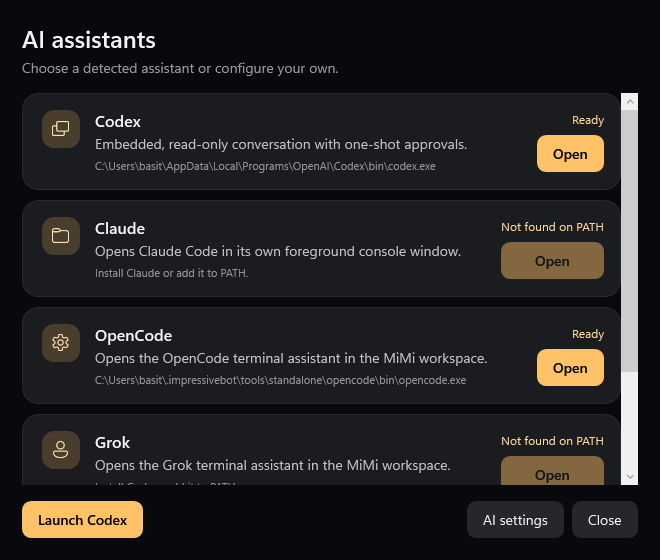
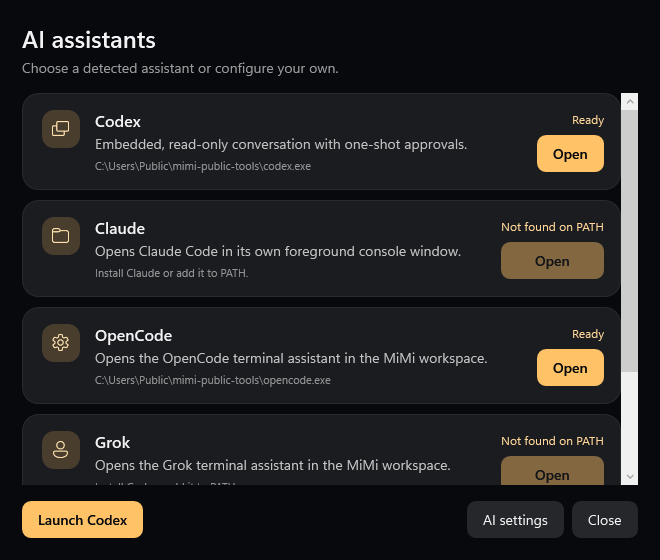
Refresh public screenshots and release archive
Update documentation images and sample text, and regenerate the distributable zip after verification.

Changed region(s): [[0.2121, 0.6679, 0.697, 0.6982], [0.2121, 0.2732, 0.6667, 0.3036]]

diff --git a/src/MiMi.Tests/AgentPanelLayoutTests.cs b/src/MiMi.Tests/AgentPanelLayoutTests.cs
@@ -51,7 +51,7 @@ public class AgentPanelLayoutTests
                 card.Update(AgentEventFactory.Create("thursday", "chat", AgentEventTypes.ApprovalRequested,
                     title: "Permission required", message: "Allow this tool family for this task?", project: "ImpressiveBackup",
                     approvalRequestId: "preview", metadata: new Dictionary<string, string> {
-                        ["action_kind"] = "bash", ["command"] = "cd C:/Users/basit/ImpressiveBackup\nls -la\ncat package.json" }));
+                        ["action_kind"] = "bash", ["command"] = "cd C:/Users/demo/ImpressiveBackup\nls -la\ncat package.json" }));
                 Render(window, new ApprovalView(card), "approval", 470);
                 window.Close();
             }

diff --git a/src/MiMi.App/UI/Mascot/MiMiMascotControl.xaml.cs b/src/MiMi.App/UI/Mascot/MiMiMascotControl.xaml.cs
@@ -442,7 +442,7 @@ public partial class MiMiMascotControl : UserControl
         back.Start();
     }
 
-    /// <summary>A short eye-wave when Basit returns. It runs once, detaches, and leaves
+    /// <summary>A short eye-wave when the user returns. It runs once, detaches, and leaves
     /// the expression pose pinned so idle rendering returns to zero.</summary>
     public void PlayHello()
     {

diff --git a/README.md b/README.md
@@ -140,7 +140,7 @@ Prerequisites: Windows 11 x64 and .NET SDK 10. On this machine the SDK is user-l
 before building because it locks its output.
 
 ```powershell
-cd C:\Users\basit\MiMi
+cd path\to\MiMi
 $env:DOTNET_ROOT = Join-Path $env:LOCALAPPDATA 'Microsoft\dotnet'
 $env:PATH = "$env:DOTNET_ROOT;$env:PATH"
 
